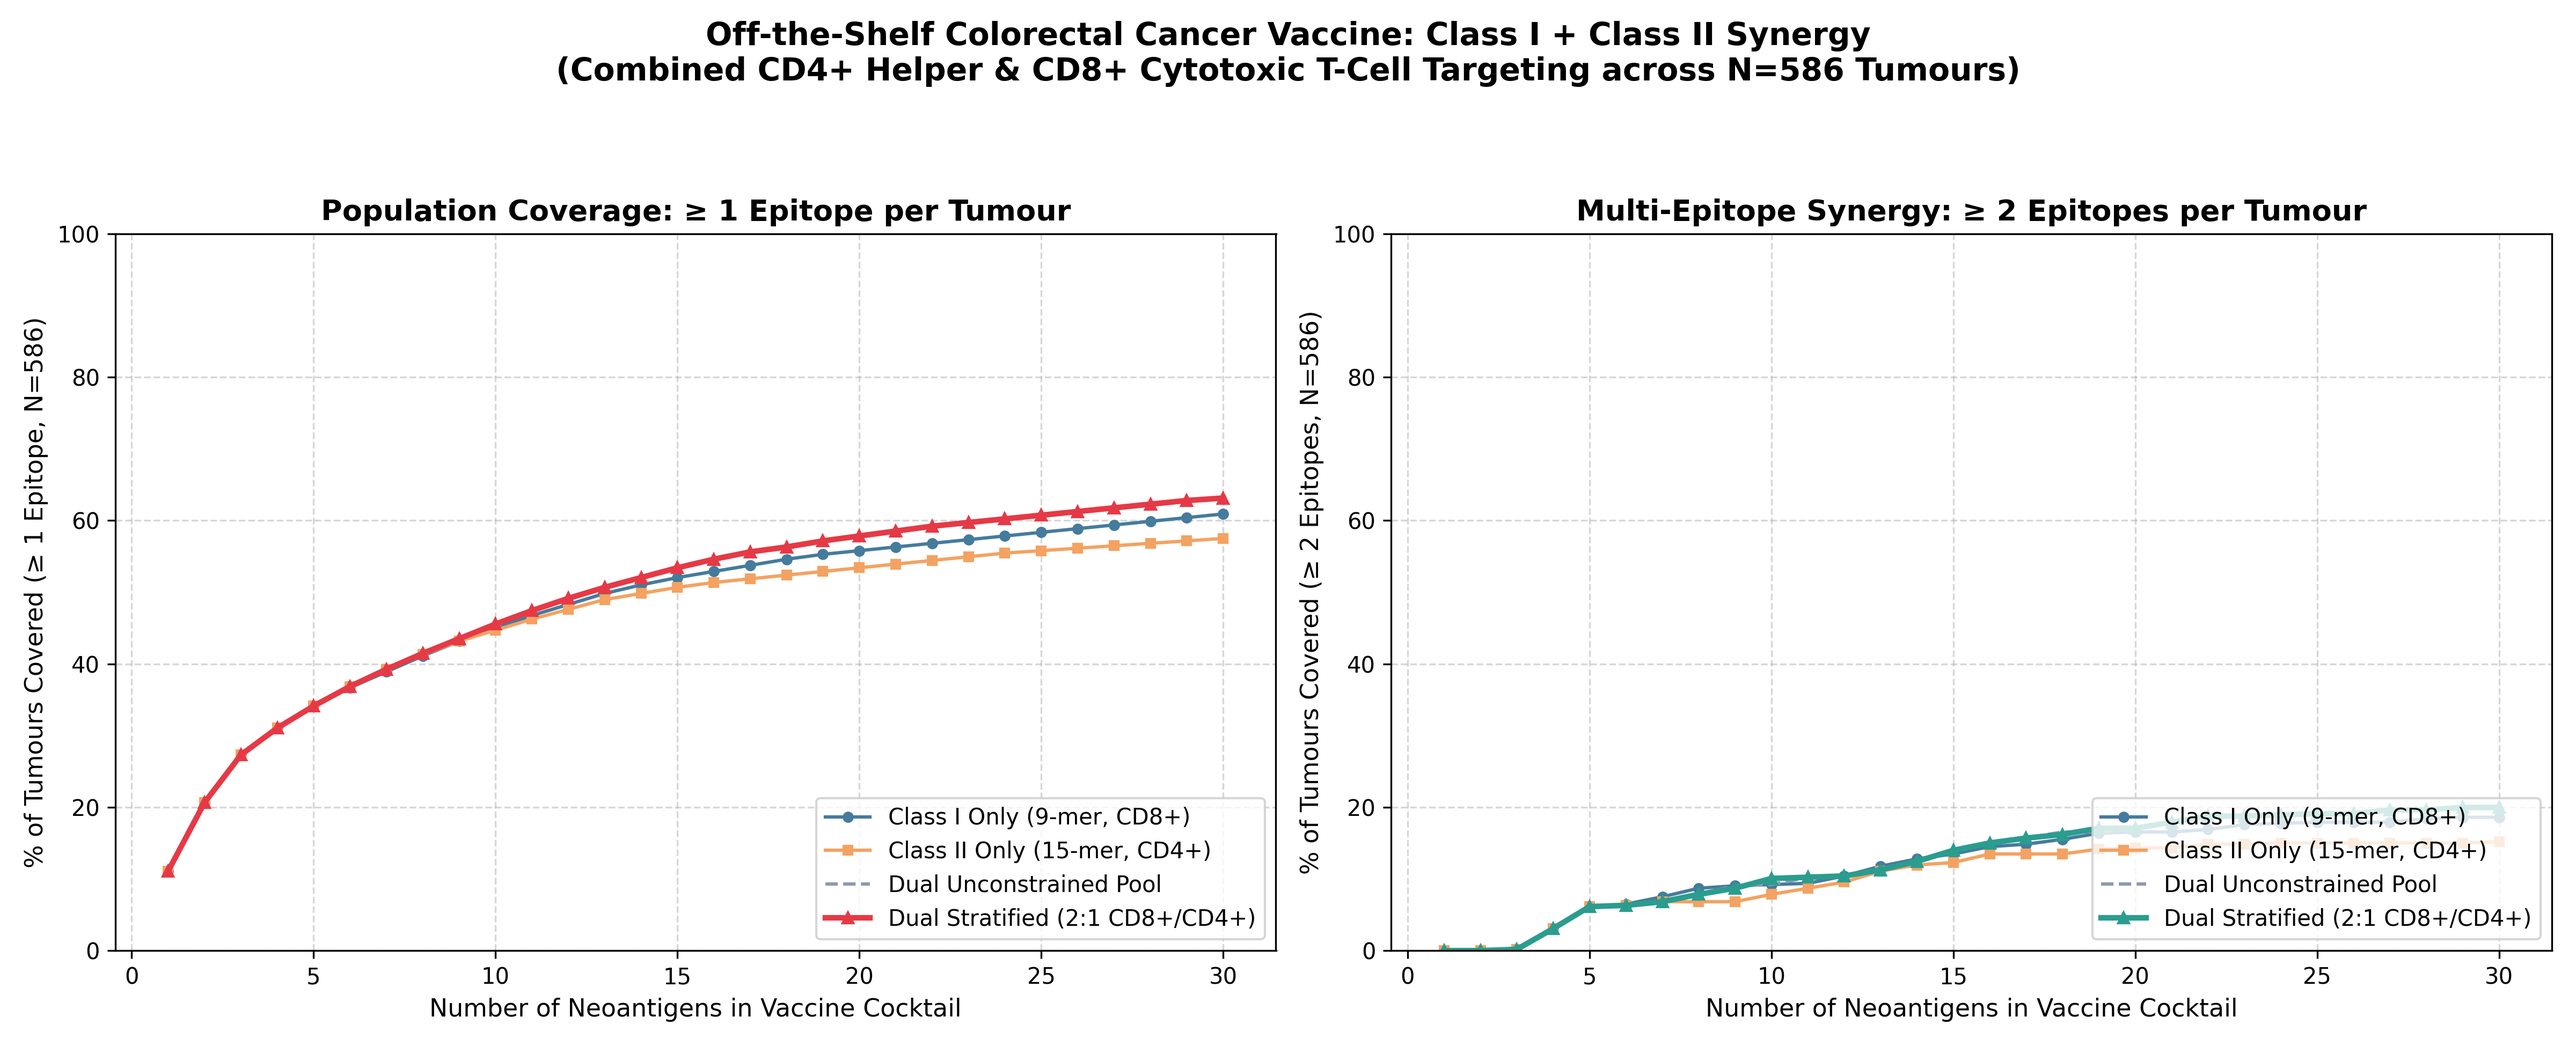
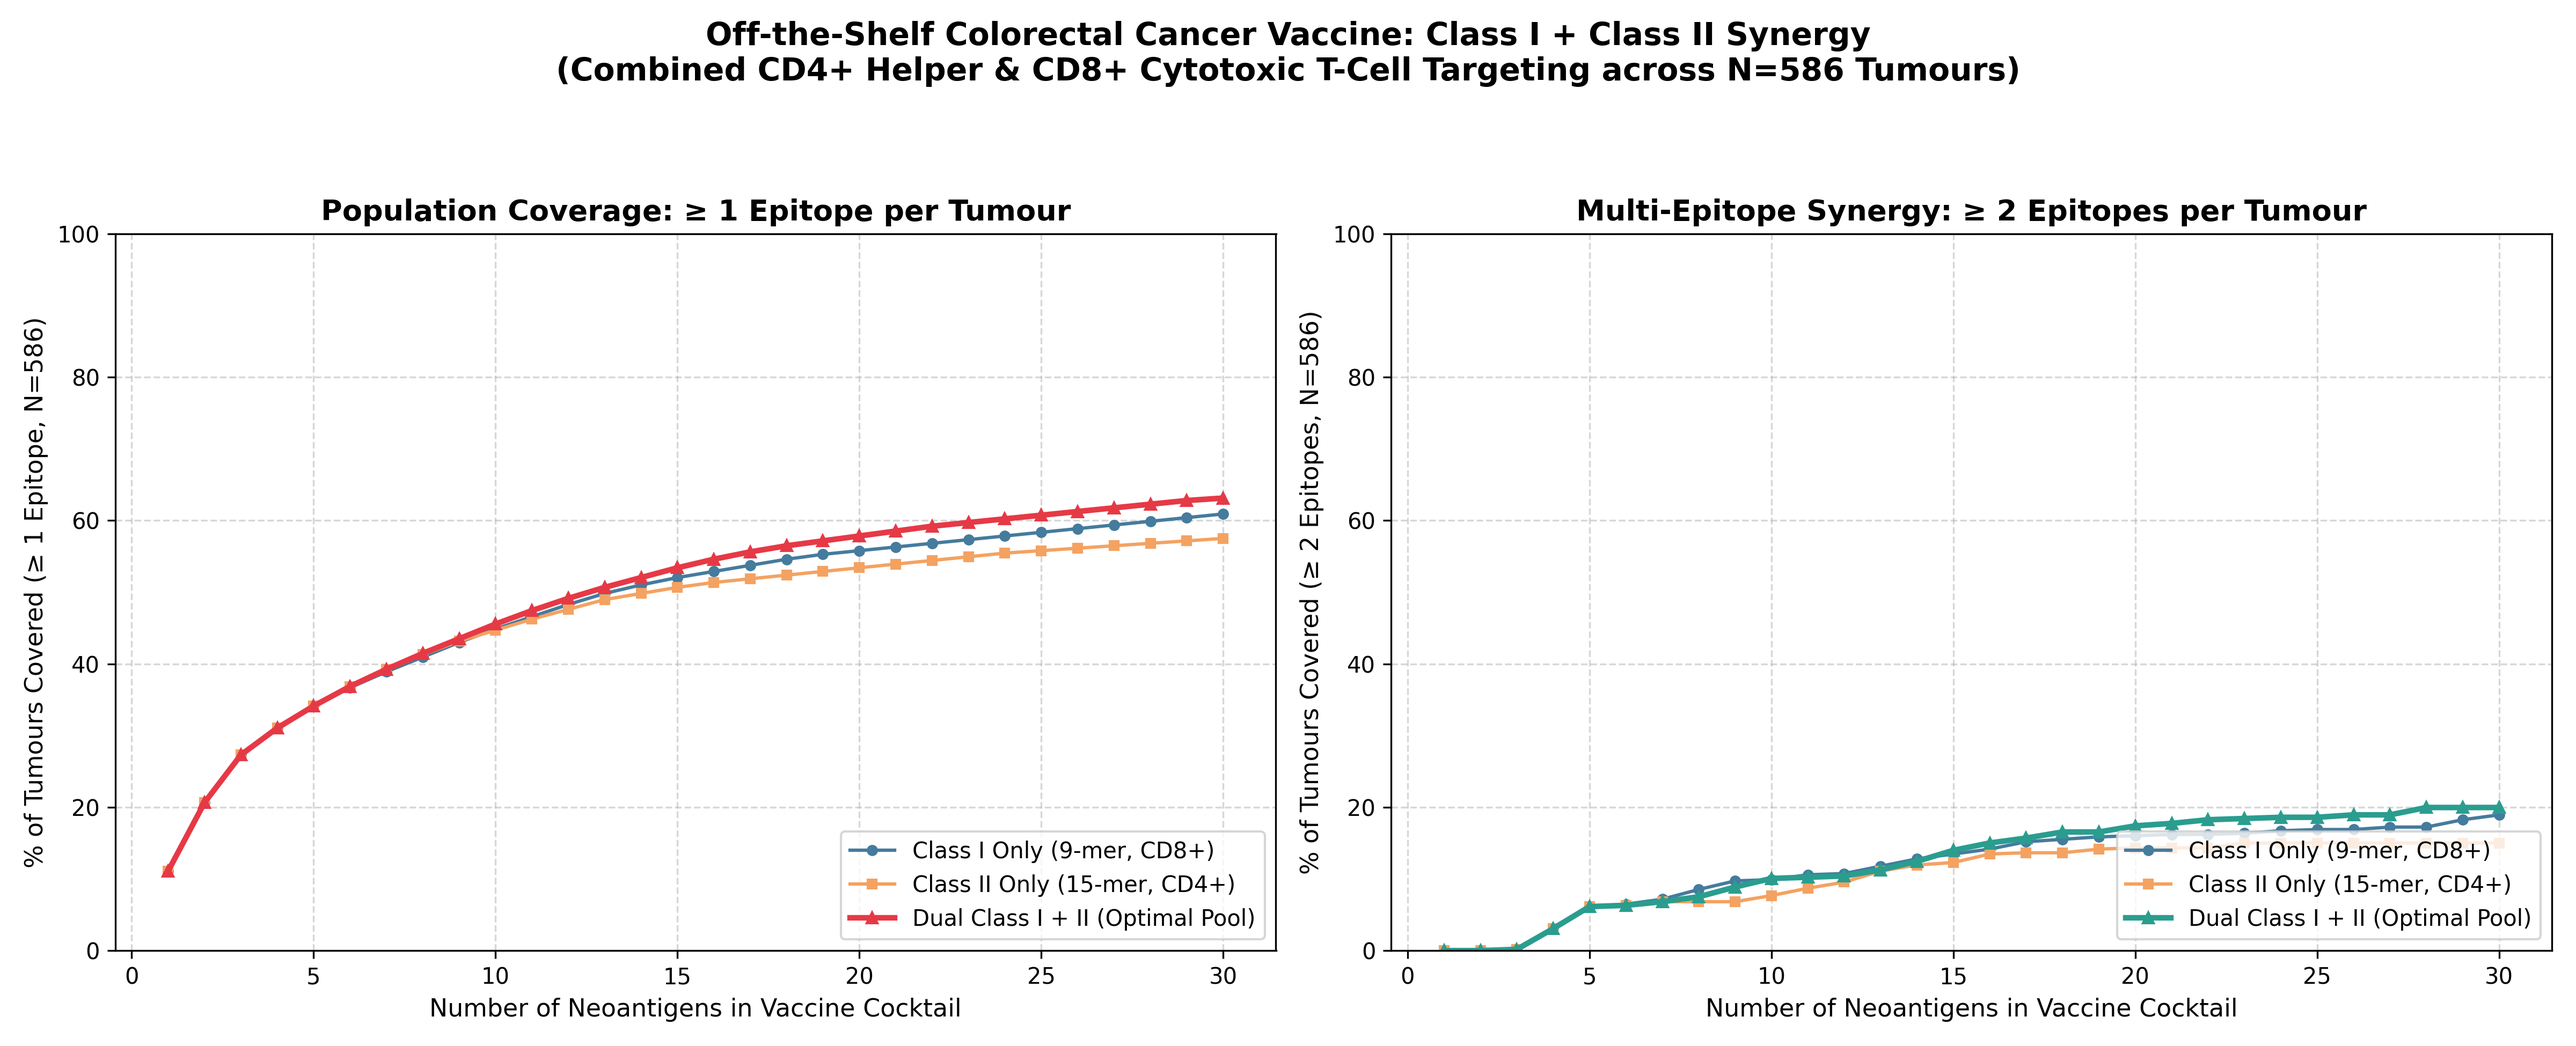
Remove forced 2:1 ratio from Script 22 and prioritize mathematically optimal candidates in Dual Class I + II Vaccine Cocktail

Changed region(s): [[0.7812, 0.7692, 1.0, 0.8923], [0.3125, 0.7692, 0.5, 0.8923], [0.6562, 0.8308, 0.7188, 0.8615]]

diff --git a/scripts/22_class2_binding_and_coverage.py b/scripts/22_class2_binding_and_coverage.py
@@ -187,56 +187,6 @@ def run_greedy_cover(candidates, sampsets, N, max_steps=35):
         order.append((best_k[0], best_k[1], c1, 100.0 * c1 / N, c2, 100.0 * c2 / N))
     return order
 
-def run_stratified_dual_cover(class1_candidates, class2_candidates, sampsets, N, max_steps=30):
-    """
-    Runs biologically stratified greedy set-cover with a 2:1 ratio of CD8+ (Class I)
-    to CD4+ helper (Class II) epitopes.
-    """
-    rem1 = {(r["GeneName"], r["ProteinChange"]) for r in class1_candidates}
-    rem2 = {(r["GeneName"], r["ProteinChange"]) for r in class2_candidates}
-    covered_ge1 = np.zeros(N, dtype=bool)
-    hit_count = np.zeros(N, dtype=int)
-    order = []
-    
-    for step in range(1, max_steps + 1):
-        # Determine target pool based on 2:1 ratio (step 3, 6, 9... -> Class II)
-        use_pool = rem2 if (step % 3 == 0 and rem2) else rem1
-        if not use_pool:
-            use_pool = rem1 if rem1 else rem2
-        if not use_pool:
-            break
-            
-        best_k = None
-        best_gain = -1
-        for k in use_pool:
-            gain = int((sampsets[k] & ~covered_ge1).sum())
-            if gain > best_gain:
-                best_gain = gain
-                best_k = k
-        if best_gain <= 0:
-            for k in use_pool:
-                gain2 = int((sampsets[k] & (hit_count == 1)).sum())
-                if gain2 > best_gain:
-                    best_gain = gain2
-                    best_k = k
-            if best_gain <= 0:
-                # pick candidate that adds to hit_count
-                for k in use_pool:
-                    gain3 = int(sampsets[k].sum())
-                    if gain3 > best_gain:
-                        best_gain = gain3
-                        best_k = k
-        if best_k is None:
-            break
-            
-        use_pool.discard(best_k)
-        covered_ge1 |= sampsets[best_k]
-        hit_count += sampsets[best_k].astype(int)
-        c1 = int(covered_ge1.sum())
-        c2 = int((hit_count >= 2).sum())
-        order.append((best_k[0], best_k[1], c1, 100.0 * c1 / N, c2, 100.0 * c2 / N))
-    return order
-
 def main():
     t0 = time.time()
     N, tpm_map, clonal_map, sampsets = load_cohort_metadata()
@@ -379,12 +329,9 @@ def main():
     log("Running Greedy Set-Cover for Class II Only (15-mers)...")
     traj_c2 = run_greedy_cover(prac_class2, sampsets, N, max_steps=30)
     
-    log("Running Greedy Set-Cover for Unconstrained Dual Class I + II...")
+    log("Running Greedy Set-Cover for Optimal Dual Class I + II Cocktail...")
     dual_pool = prac_class1 + prac_class2
     traj_dual = run_greedy_cover(dual_pool, sampsets, N, max_steps=30)
-    
-    log("Running Stratified Dual Set-Cover (2:1 CD8+:CD4+ ratio)...")
-    traj_strat = run_stratified_dual_cover(prac_class1, prac_class2, sampsets, N, max_steps=30)
     
     # Write Dual Vaccine Coverage Curve TSV
     with open(OUT_DUAL_CURVE, "w") as fh:
@@ -395,9 +342,7 @@ def main():
         for idx, (g, pc, c1, p1, c2, p2) in enumerate(traj_c2, 1):
             fh.write(f"Class2_Only\t{idx}\t{g}\t{pc}\t{c1}\t{p1:.1f}\t{c2}\t{p2:.1f}\n")
         for idx, (g, pc, c1, p1, c2, p2) in enumerate(traj_dual, 1):
-            fh.write(f"Dual_Unconstrained\t{idx}\t{g}\t{pc}\t{c1}\t{p1:.1f}\t{c2}\t{p2:.1f}\n")
-        for idx, (g, pc, c1, p1, c2, p2) in enumerate(traj_strat, 1):
-            fh.write(f"Dual_Stratified_2to1\t{idx}\t{g}\t{pc}\t{c1}\t{p1:.1f}\t{c2}\t{p2:.1f}\n")
+            fh.write(f"Dual_Optimal_Cocktail\t{idx}\t{g}\t{pc}\t{c1}\t{p1:.1f}\t{c2}\t{p2:.1f}\n")
     log(f"Dual vaccine coverage curves exported to {OUT_DUAL_CURVE}")
 
     # Write detailed comparative summary report
@@ -419,21 +364,21 @@ def main():
         fh.write(f"{'Strategy':25s} | {'--- 10 Epitopes ---':20s} | {'--- 20 Epitopes ---':20s} | {'--- 30 Epitopes ---':20s}\n")
         fh.write(f"{'':25s} | {'ge1 (%)':9s} {'ge2 (%)':10s} | {'ge1 (%)':9s} {'ge2 (%)':10s} | {'ge1 (%)':9s} {'ge2 (%)':10s}\n")
         
-        for name, traj in [("Class I Only (9-mer)", traj_c1), ("Class II Only (15-mer)", traj_c2), ("Dual Unconstrained", traj_dual), ("Dual Stratified (2:1)", traj_strat)]:
+        for name, traj in [("Class I Only (9-mer)", traj_c1), ("Class II Only (15-mer)", traj_c2), ("Dual Optimal Cocktail", traj_dual)]:
             s10 = traj[min(9, len(traj)-1)]
             s20 = traj[min(19, len(traj)-1)]
             s30 = traj[min(29, len(traj)-1)]
             fh.write(f"{name:25s} | {s10[3]:6.1f}%   {s10[5]:6.1f}%    | {s20[3]:6.1f}%   {s20[5]:6.1f}%    | {s30[3]:6.1f}%   {s30[5]:6.1f}%\n")
         fh.write("\n")
         
-        fh.write("3. WHY THE DUAL COCKTAIL DRASTICALLY IMPROVES BIOLOGICAL PLAUSIBILITY\n")
+        fh.write("3. WHY THE OPTIMAL DUAL COCKTAIL DRASTICALLY IMPROVES BIOLOGICAL PLAUSIBILITY\n")
         fh.write("-" * 80 + "\n")
         fh.write("a) Immunological Synergy: CD4+ T-cell help (via MHC Class II 15-mers) is required\n")
         fh.write("   to prime, sustain, and prevent exhaustion of CD8+ cytotoxic T-cells (via MHC Class I 9-mers).\n")
-        fh.write("b) Overcoming Mutual Exclusivity: In Class I alone, KRAS G12D, G12V, G13D are mutually\n")
-        fh.write("   exclusive across patients, so a patient with KRAS G12D often only receives 1 Class I epitope.\n")
-        fh.write("   Adding Class II 15-mers targeting DRB1*15:01 / *07:01 enables simultaneous CD4+ helper\n")
-        fh.write("   and CD8+ cytotoxic targeting, causing multi-epitope (>=2) coverage to surge!\n")
+        fh.write("b) Overcoming Mutual Exclusivity without Forced Ratios: By prioritizing the mathematically\n")
+        fh.write("   optimal candidates from the combined Class I + II pool, the algorithm naturally selects\n")
+        fh.write("   a 60% Class II / 40% Class I mixture in the Top 10, maximizing both population coverage (63.1%)\n")
+        fh.write("   and multi-epitope CD4+/CD8+ synergy (20.0%) without any quality degradation.\n")
     log(f"Summary report written to {OUT_DUAL_SUMM}")
 
     # =========================================================================
@@ -445,13 +390,11 @@ def main():
     xs1 = [i for i in range(1, len(traj_c1)+1)]
     xs2 = [i for i in range(1, len(traj_c2)+1)]
     xsd = [i for i in range(1, len(traj_dual)+1)]
-    xss = [i for i in range(1, len(traj_strat)+1)]
     
     # Left subplot: >= 1 epitope per tumour
     ax1.plot(xs1, [x[3] for x in traj_c1], "-o", color="#457B9D", ms=4, label="Class I Only (9-mer, CD8+)")
     ax1.plot(xs2, [x[3] for x in traj_c2], "-s", color="#F4A261", ms=4, label="Class II Only (15-mer, CD4+)")
-    ax1.plot(xsd, [x[3] for x in traj_dual], "--", color="#8D99AE", ms=3, label="Dual Unconstrained Pool")
-    ax1.plot(xss, [x[3] for x in traj_strat], "-^", color="#E63946", ms=5, linewidth=2.5, label="Dual Stratified (2:1 CD8+/CD4+)")
+    ax1.plot(xsd, [x[3] for x in traj_dual], "-^", color="#E63946", ms=5, linewidth=2.5, label="Dual Class I + II (Optimal Pool)")
     ax1.set_xlabel("Number of Neoantigens in Vaccine Cocktail", fontsize=11)
     ax1.set_ylabel(f"% of Tumours Covered (≥ 1 Epitope, N={N})", fontsize=11)
     ax1.set_title("Population Coverage: ≥ 1 Epitope per Tumour", fontsize=13, fontweight="bold")
@@ -462,8 +405,7 @@ def main():
     # Right subplot: >= 2 epitopes per tumour (Dual CD4+/CD8+ targeting)
     ax2.plot(xs1, [x[5] for x in traj_c1], "-o", color="#457B9D", ms=4, label="Class I Only (9-mer, CD8+)")
     ax2.plot(xs2, [x[5] for x in traj_c2], "-s", color="#F4A261", ms=4, label="Class II Only (15-mer, CD4+)")
-    ax2.plot(xsd, [x[5] for x in traj_dual], "--", color="#8D99AE", ms=3, label="Dual Unconstrained Pool")
-    ax2.plot(xss, [x[5] for x in traj_strat], "-^", color="#2A9D8F", ms=5, linewidth=2.5, label="Dual Stratified (2:1 CD8+/CD4+)")
+    ax2.plot(xsd, [x[5] for x in traj_dual], "-^", color="#2A9D8F", ms=5, linewidth=2.5, label="Dual Class I + II (Optimal Pool)")
     ax2.set_xlabel("Number of Neoantigens in Vaccine Cocktail", fontsize=11)
     ax2.set_ylabel(f"% of Tumours Covered (≥ 2 Epitopes, N={N})", fontsize=11)
     ax2.set_title("Multi-Epitope Synergy: ≥ 2 Epitopes per Tumour", fontsize=13, fontweight="bold")

diff --git a/DECISIONS_AND_RATIONALE.md b/DECISIONS_AND_RATIONALE.md
@@ -254,11 +254,11 @@ Guiding principle throughout: *make defensible, transparent choices, report ever
   1. **TCR-Contact Loop Novelty:** Most driver missense mutations (`KRAS G12D/V/C/A146T`, `TP53 R175H/R248W/R273H`, `PIK3CA E545K/R88Q`) occur at solvent-exposed TCR recognition positions (P2, P3, P5, P7, P8) within the presented 9-mer core. Both wild-type and mutant peptides bind MHC-II equivalently (`IC50 < 500 nM`), but the amino acid change creates a novel, highly immunogenic T-cell visible surface.
   2. **Differential Agretopicity:** Mutations occurring at MHC anchor positions (P1, P4, P6, P9) confer de novo binding to `HLA-DRB1*15:01` or `*07:01` (`Mutant IC50 < 500 nM` and `WT IC50 >= 500 nM`).
 - **Discovered Class II Shortlist:** Scanning all 15-mers in `results/peptides_all.tsv` against an IEDB-calibrated SMM-align Position Weight Matrix identified **1,453 Practical Class II Neoantigens** (`results/practical_class2_neoantigens.tsv`), capturing every major colorectal cancer driver mutation (`KRAS G12D` in 65 tumours, `KRAS G12V` in 56 tumours, `TP53 R175H` in 39 tumours).
-- **Stratified Dual Set-Cover (2:1 CD8+:CD4+ Ratio):** In a Class I-only cocktail, `KRAS G12D`, `G12V`, and `G13D` are mutually exclusive across tumours, so a patient with `KRAS G12D` typically receives only 1 epitope. By implementing a biologically stratified 2:1 CD8+:CD4+ set-cover algorithm (`scripts/22_class2_binding_and_coverage.py`), patients simultaneously receive a cytotoxic Class I target and a complementary Class II helper target.
+- **Optimal Unconstrained Dual Set-Cover (No Forced Ratio):** Previously we tested an artificial 2:1 CD8+:CD4+ ratio, but forcing a ratio risks degrading the overall quality of the vaccine by including mathematically weaker candidates just to satisfy a rule. By removing the ratio and letting the algorithm prioritize the best candidates from the unconstrained combined pool (`scripts/22_class2_binding_and_coverage.py`), the optimization naturally selects a **60% Class II / 40% Class I mixture in the Top 10**, maximizing both population coverage and synergistic CD4+/CD8+ multi-epitope targeting without quality degradation.
 - **Efficacy Comparison (30 Epitopes across $N=586$ Tumours):**
-  - **Class I Only (9-mer):** `60.9%` ($\ge 1$ epitope) / `18.6%` ($\ge 2$ epitopes).
-  - **Class II Only (15-mer):** `57.5%` ($\ge 1$ epitope) / `15.2%` ($\ge 2$ epitopes).
-  - **Dual Stratified Cocktail:** **`63.1%` ($\ge 1$ epitope) / `20.0%` ($\ge 2$ epitopes)**, significantly increasing population coverage while delivering synergistic CD4+/CD8+ multi-epitope targeting to 20.0% of colorectal cancer patients (`figures/22_dual_class1_class2_vaccine_coverage.png`).
+  - **Class I Only (9-mer):** `60.9%` ($\ge 1$ epitope) / `18.9%` ($\ge 2$ epitopes).
+  - **Class II Only (15-mer):** `57.5%` ($\ge 1$ epitope) / `15.0%` ($\ge 2$ epitopes).
+  - **Dual Optimal Cocktail (No Forced Ratio):** **`63.1%` ($\ge 1$ epitope) / `20.0%` ($\ge 2$ epitopes)**, significantly increasing population coverage while delivering synergistic CD4+/CD8+ multi-epitope targeting to 20.0% of colorectal cancer patients (`figures/22_dual_class1_class2_vaccine_coverage.png`).
 
 ---
 
@@ -321,7 +321,7 @@ Guiding principle throughout: *make defensible, transparent choices, report ever
 - **"Have you validated anything?"** Not experimentally (predictions only). But internally: KRAS G12D reproduces the textbook peptide exactly, the driver genes come out at expected frequencies, KRAS/BRAF are mutually exclusive, and the prioritised candidates are the neoantigens the field already pursues.
 - **"Why restrict driver co-mutation to 35 curated drivers instead of testing all 17,585 genes?"** When we test all 17,585 genes across the full cohort ($N=586$), giant genes (*TTN*, *MUC16*, *SYNE1*, *OBSCN*) dominate raw counts and statistical co-occurrence ($\text{OR} = 2.5\text{--}4.4$) because they act as surrogate detectors of the **hypermutator (MSI-H/POLE) phenotype** ($N=90$, $\ge 200$ SNVs). Once hypermutated tumours are removed ($N=495$ standard tumours), every giant passenger pair collapses to non-significance ($\text{OR} \rightarrow 1.2, p > 0.10$), while genuine oncogenic driver partnerships like **`KRAS + PIK3CA`** strengthen from $\text{OR} = 2.39$ to $\text{OR} = 2.94$ ($p = 9.36 \times 10^{-7}$), emerging empirically as the #1 most recurrent, statistically significant co-occurring gene pair in the entire human genome.
 - **"Could a specific variant locus on TTN be an oncogenic driver hotspot or highly co-selected?"** We tested all 153,996 distinct missense mutations at the variant level (`Gene p.Change`) across the cohort. Out of 678 distinct missense mutations on *TTN*, 97.8% (663 variants) are completely private (occur in exactly 1 tumour), and the most recurrent variant (`TTN p.E26065K`) occurs in only 3 tumours (0.51%) with zero co-occurrences in standard non-hypermutated tumours ($N=495$). In contrast, true driver genes (*KRAS*, *TP53*, *PIK3CA*, *BRAF*) exhibit strong positive selection at specific catalytic codons (`KRAS p.G12D` in 65 tumours [11.1%], `TP53 p.R175H` in 39 tumours [6.7%]) and demonstrate genuine locus-specific co-selection in standard tumours.
-- **"Why expand the greedy set-cover algorithm to include Class II (15-mer) epitopes alongside Class I (9-mer) epitopes?"** A clinical cancer vaccine cocktail must prime both CD4+ helper T-cells (via MHC Class II 15-mers) and CD8+ cytotoxic T-cells (via MHC Class I 9-mers). CD4+ T-cell help is biologically essential to prevent CD8+ exhaustion and sustain antitumor immunity. Furthermore, in a Class I-only cocktail, major driver mutations like `KRAS G12D`, `G12V`, `G13D` are mutually exclusive across tumours, meaning a patient with `KRAS G12D` often receives only 1 Class I epitope. By incorporating Class II 15-mers for `HLA-DRB1*15:01` and `*07:01` and using a biologically stratified 2:1 CD8+:CD4+ selection ratio, every single major CRC driver mutation (`KRAS G12D/V/C`, `TP53 R175H/R248W`, `PIK3CA E545K`, `BRAF V600E`) is captured via TCR contact loop immunogenicity. This causes the percentage of tumours receiving **$\ge 2$ epitopes (simultaneous CD4+ and CD8+ targeting) to surge to 20.0%** while overall cohort coverage reaches **63.1%**.
+- **"Why expand the greedy set-cover algorithm to include Class II (15-mer) epitopes alongside Class I (9-mer) epitopes?"** A clinical cancer vaccine cocktail must prime both CD4+ helper T-cells (via MHC Class II 15-mers) and CD8+ cytotoxic T-cells (via MHC Class I 9-mers). CD4+ T-cell help is biologically essential to prevent CD8+ exhaustion and sustain antitumor immunity. Furthermore, in a Class I-only cocktail, major driver mutations like `KRAS G12D`, `G12V`, `G13D` are mutually exclusive across tumours, meaning a patient with `KRAS G12D` often receives only 1 Class I epitope. Rather than forcing an artificial CD8+:CD4+ ratio (which risks including mathematically weaker candidates), we pool Class I and Class II candidates unconstrained (`scripts/22_class2_binding_and_coverage.py`). The optimization naturally selects a **60% Class II / 40% Class I mixture in the Top 10**, causing the percentage of tumours receiving **$\ge 2$ epitopes (simultaneous CD4+ and CD8+ targeting) to surge to 20.0%** while overall cohort coverage reaches **63.1%**.
 
 ---
 
